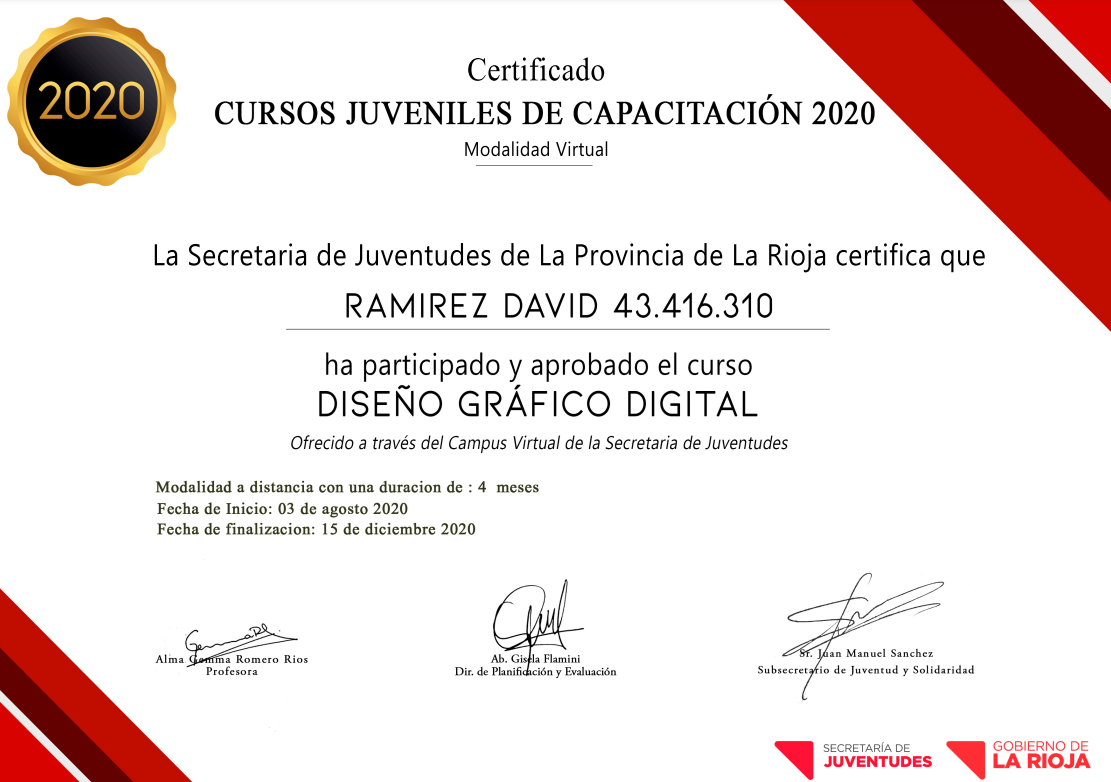
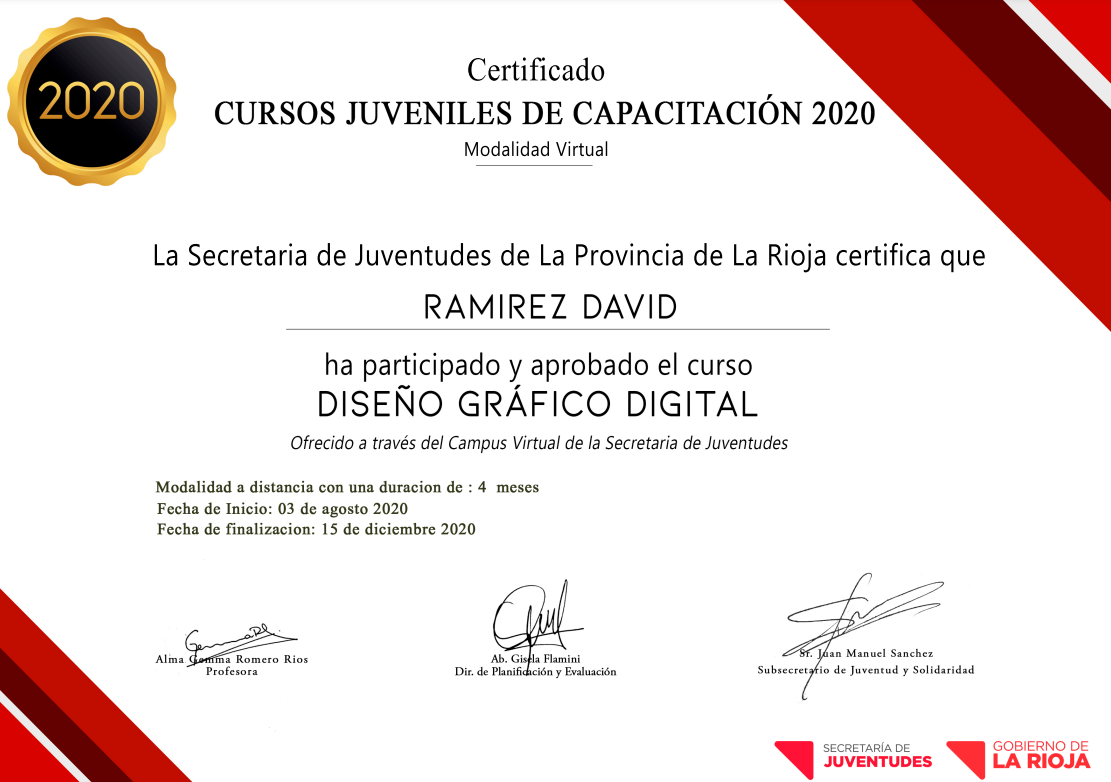
certificados y lanfings

Changed region(s): [[0.306, 0.3683, 0.7039, 0.4297]]

diff --git a/src/components/Enlinea.jsx b/src/components/Enlinea.jsx
@@ -14,36 +14,78 @@ const proyectos = [
     id: 2,
     title: 'Reservas de Turnos',
     tag: 'Web App',
-    image: 'https://api.microlink.io/?url=https%3A%2F%2Freservas-de-turnos.vercel.app&screenshot=true&meta=false&embed=screenshot.url',
+    image: './images/reservas.png',
     link: 'https://reservas-de-turnos.vercel.app',
   },
   {
     id: 3,
     title: 'Lavadero a Domicilio',
     tag: 'Landing Page',
-    image: 'https://api.microlink.io/?url=https%3A%2F%2Flavaderoadomicilio.vercel.app&screenshot=true&meta=false&embed=screenshot.url',
+    image: './images/lavadero.png',
     link: 'https://lavaderoadomicilio.vercel.app',
   },
   {
     id: 4,
     title: 'Catálogo La Huella',
     tag: 'E-Commerce',
-    image: 'https://api.microlink.io/?url=https%3A%2F%2Fcatalogo-lahuella.vercel.app&screenshot=true&meta=false&embed=screenshot.url',
+    image: './images/lahuella.png',
     link: 'https://catalogo-lahuella.vercel.app',
   },
   {
     id: 5,
     title: 'Kinetic Sport LR',
     tag: 'Landing Page',
-    image: 'https://api.microlink.io/?url=https%3A%2F%2Fkinetic-sport-lr.vercel.app&screenshot=true&meta=false&embed=screenshot.url',
+    image: './images/kineticsport.png',
     link: 'https://kinetic-sport-lr.vercel.app',
   },
   {
     id: 6,
     title: 'Electro Frío',
     tag: 'Landing Page',
-    image: 'https://api.microlink.io/?url=https%3A%2F%2Felectro-frio.vercel.app&screenshot=true&meta=false&embed=screenshot.url',
+    image: './images/electrofrio.png',
     link: 'https://electro-frio.vercel.app',
+  },
+  {
+    id: 7,
+    title: 'Chavo BMX',
+    tag: 'Portfolio',
+    image: './images/chavobmx.png',
+    link: 'https://chavo-bmx.vercel.app',
+  },
+  {
+    id: 8,
+    title: 'Electro Frío v2',
+    tag: 'Landing Page',
+    image: './images/electrofriov2.png',
+    link: 'https://electrofriov2.vercel.app',
+  },
+  {
+    id: 9,
+    title: 'Catálogo Moscú',
+    tag: 'E-Commerce',
+    image: './images/catalogomoscu.png',
+    link: 'https://catalogo-moscu.vercel.app',
+  },
+  {
+    id: 10,
+    title: 'Caudillo Fight',
+    tag: 'Game',
+    image: './images/caudillofight.png',
+    link: 'https://caudillofight.vercel.app',
+  },
+  {
+    id: 11,
+    title: 'Sleek Window Cleaning',
+    tag: 'Landing Page',
+    image: './images/sleekcleans.png',
+    link: 'https://www.sleekcleans.com',
+  },
+  {
+    id: 12,
+    title: 'Electro Frío App',
+    tag: 'Web App',
+    image: './images/electrofrioapp.png',
+    link: 'https://electrofriov2.web.app',
   },
 ];
 

diff --git a/src/components/Certificados.jsx b/src/components/Certificados.jsx
@@ -3,6 +3,9 @@ import { FaExpand } from "react-icons/fa";
 
 const certificados = [
   { nombre: "Full Stack Web Developer – Digital House", imagen: "./certificados/fullstack.png", issuer: "Digital House" },
+  { nombre: "Programador Web Full Stack – Polo Tecnológico", imagen: "./certificados/POLO TECNOLÓGICO_page-0001.jpg", issuer: "Polo Tecnológico" },
+  { nombre: "Tiendanube Partner Desarrollador – Tiendanube", imagen: "./certificados/tienda nube.png", issuer: "Tiendanube" },
+  { nombre: "Inglés Técnico – Polo Tecnológico", imagen: "./certificados/ingles tecnico.png", issuer: "Polo Tecnológico" },
   { nombre: "Desarrollo Web Responsive – Domestika",   imagen: "./certificados/webresponsive.png", issuer: "Domestika" },
   { nombre: "Diseño Gráfico – Juventudes",             imagen: "./certificados/diseñografico.png", issuer: "Juventudes" },
   { nombre: "Programación en Javascript – Domestika",  imagen: "./certificados/programacion.png", issuer: "Domestika" },

diff --git a/src/components/Footer.jsx b/src/components/Footer.jsx
@@ -62,7 +62,7 @@ const Footer = () => {
               {[
                 { label: "Inicio", href: "#inicio" },
                 { label: "Sobre mí", href: "#aboutme" },
-                { label: "Proyectos", href: "#Mis Proyectos" },
+                { label: "Proyectos", href: "#proyectos" },
                 { label: "Certificados", href: "#certificados" },
                 { label: "Instagram", href: "#instagram" },
                 { label: "Contacto", href: "#contacto" },

diff --git a/src/pages/Home.jsx b/src/pages/Home.jsx
@@ -42,7 +42,7 @@ const Home = () => {
         transition={{ duration: 0.6, delay: 0.4 }}
         viewport={{ once: true }}
       >
-        <Proyectos />
+        <Enlinea />
       </motion.div>
 
       <motion.div
@@ -52,7 +52,7 @@ const Home = () => {
         transition={{ duration: 0.6, delay: 0.6 }}
         viewport={{ once: true }}
       >
-        <Enlinea />
+        <Proyectos />
       </motion.div>
 
       <motion.div

diff --git a/src/components/Header.jsx b/src/components/Header.jsx
@@ -5,7 +5,7 @@ import logo from "../assets/logodavidramirez.png";
 const navLinks = [
   { label: "Inicio", href: "#inicio" },
   { label: "Sobre mí", href: "#aboutme" },
-  { label: "Proyectos", href: "#Mis Proyectos" },
+  { label: "Proyectos", href: "#proyectos" },
   { label: "Certificados", href: "#certificados" },
   { label: "Instagram", href: "#instagram" },
   { label: "Contacto", href: "#contacto" },
